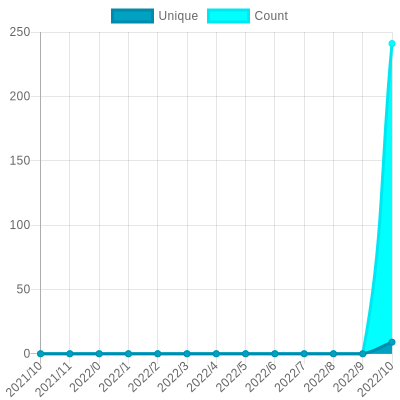
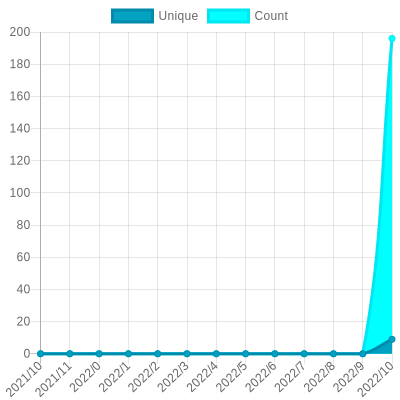
Update views

diff --git a/readme/348337317/year.md b/readme/348337317/year.md
@@ -26,7 +26,7 @@
 			<code>9</code>
 		</td>
 		<td>
-			<code>241</code>
+			<code>196</code>
 		</td>
 	</tr>
 	<tr>
@@ -164,7 +164,7 @@
 </table>
 
 </details>
-<small><i>Last updated on 2021/11/25 1:11 AM UTC</i></small>
+<small><i>Last updated on 2021/11/25 6:26 AM UTC</i></small>
 
 ## ✂Copy and 📋 Paste
 ### SVG Badge

diff --git a/README.md b/README.md
@@ -149,7 +149,7 @@ The project created and maintained by [gayanvoice](https://github.com/gayanvoice
 	</tr>
 </table>
 
-<small><i>Last updated on 2021/11/25 1:13 AM UTC</i></small>
+<small><i>Last updated on 2021/11/25 6:28 AM UTC</i></small>
 
 ## ✂Copy and 📋 Paste
 ### Total Views Badge

diff --git a/readme/350683139/year.md b/readme/350683139/year.md
@@ -164,7 +164,7 @@
 </table>
 
 </details>
-<small><i>Last updated on 2021/11/25 1:12 AM UTC</i></small>
+<small><i>Last updated on 2021/11/25 6:28 AM UTC</i></small>
 
 ## ✂Copy and 📋 Paste
 ### SVG Badge

diff --git a/readme/381924543/year.md b/readme/381924543/year.md
@@ -164,7 +164,7 @@
 </table>
 
 </details>
-<small><i>Last updated on 2021/11/25 1:12 AM UTC</i></small>
+<small><i>Last updated on 2021/11/25 6:27 AM UTC</i></small>
 
 ## ✂Copy and 📋 Paste
 ### SVG Badge

diff --git a/readme/385501407/year.md b/readme/385501407/year.md
@@ -164,7 +164,7 @@
 </table>
 
 </details>
-<small><i>Last updated on 2021/11/25 1:12 AM UTC</i></small>
+<small><i>Last updated on 2021/11/25 6:27 AM UTC</i></small>
 
 ## ✂Copy and 📋 Paste
 ### SVG Badge

diff --git a/readme/385502222/year.md b/readme/385502222/year.md
@@ -164,7 +164,7 @@
 </table>
 
 </details>
-<small><i>Last updated on 2021/11/25 1:12 AM UTC</i></small>
+<small><i>Last updated on 2021/11/25 6:27 AM UTC</i></small>
 
 ## ✂Copy and 📋 Paste
 ### SVG Badge

diff --git a/readme/421063547/year.md b/readme/421063547/year.md
@@ -164,7 +164,7 @@
 </table>
 
 </details>
-<small><i>Last updated on 2021/11/25 1:12 AM UTC</i></small>
+<small><i>Last updated on 2021/11/25 6:27 AM UTC</i></small>
 
 ## ✂Copy and 📋 Paste
 ### SVG Badge

diff --git a/readme/421164512/year.md b/readme/421164512/year.md
@@ -164,7 +164,7 @@
 </table>
 
 </details>
-<small><i>Last updated on 2021/11/25 1:11 AM UTC</i></small>
+<small><i>Last updated on 2021/11/25 6:27 AM UTC</i></small>
 
 ## ✂Copy and 📋 Paste
 ### SVG Badge

diff --git a/readme/422092179/year.md b/readme/422092179/year.md
@@ -164,7 +164,7 @@
 </table>
 
 </details>
-<small><i>Last updated on 2021/11/25 1:11 AM UTC</i></small>
+<small><i>Last updated on 2021/11/25 6:27 AM UTC</i></small>
 
 ## ✂Copy and 📋 Paste
 ### SVG Badge
